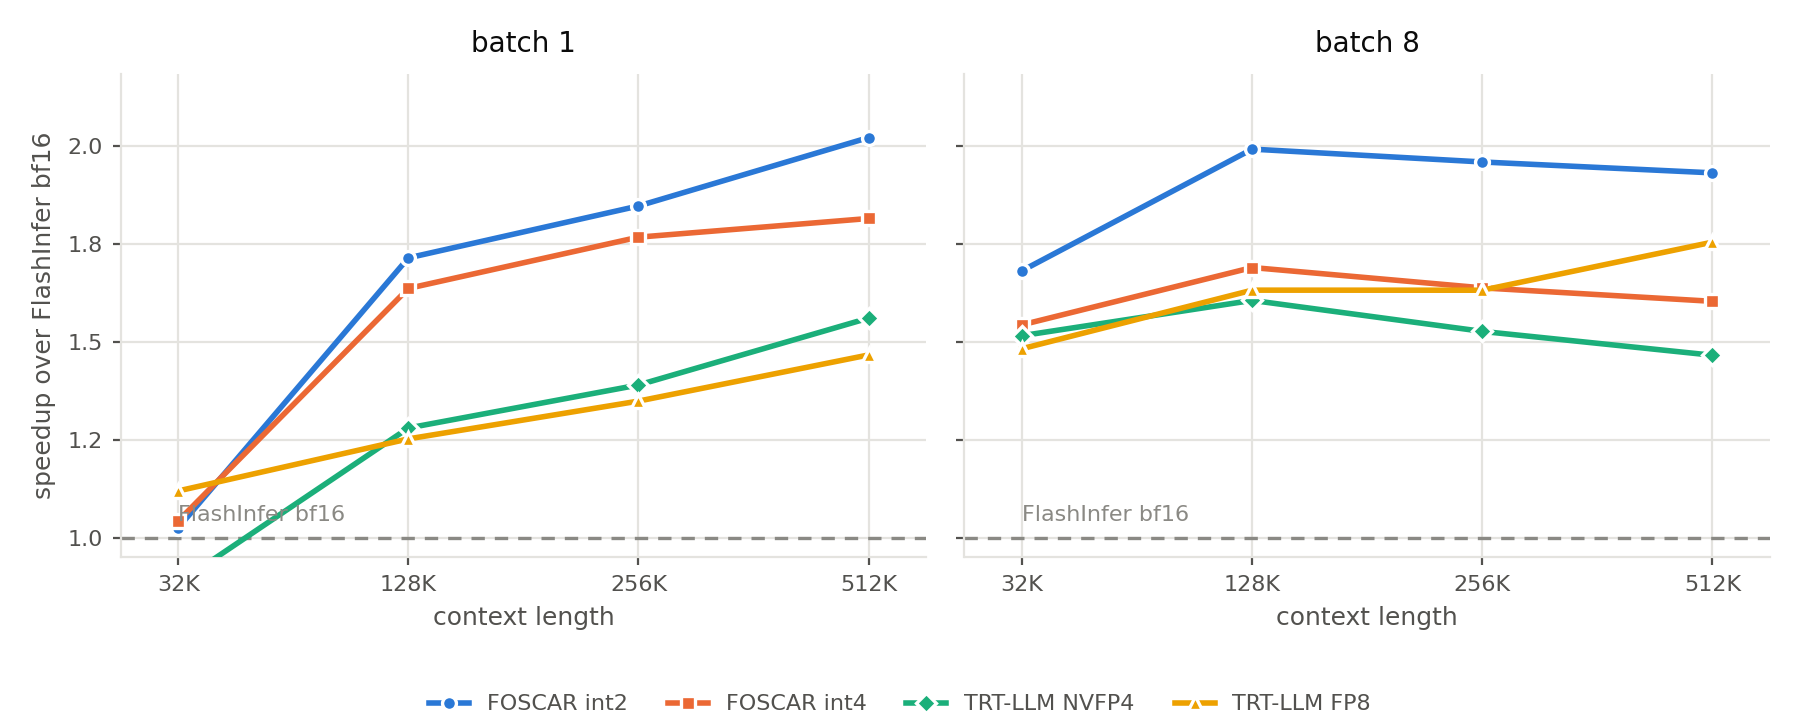
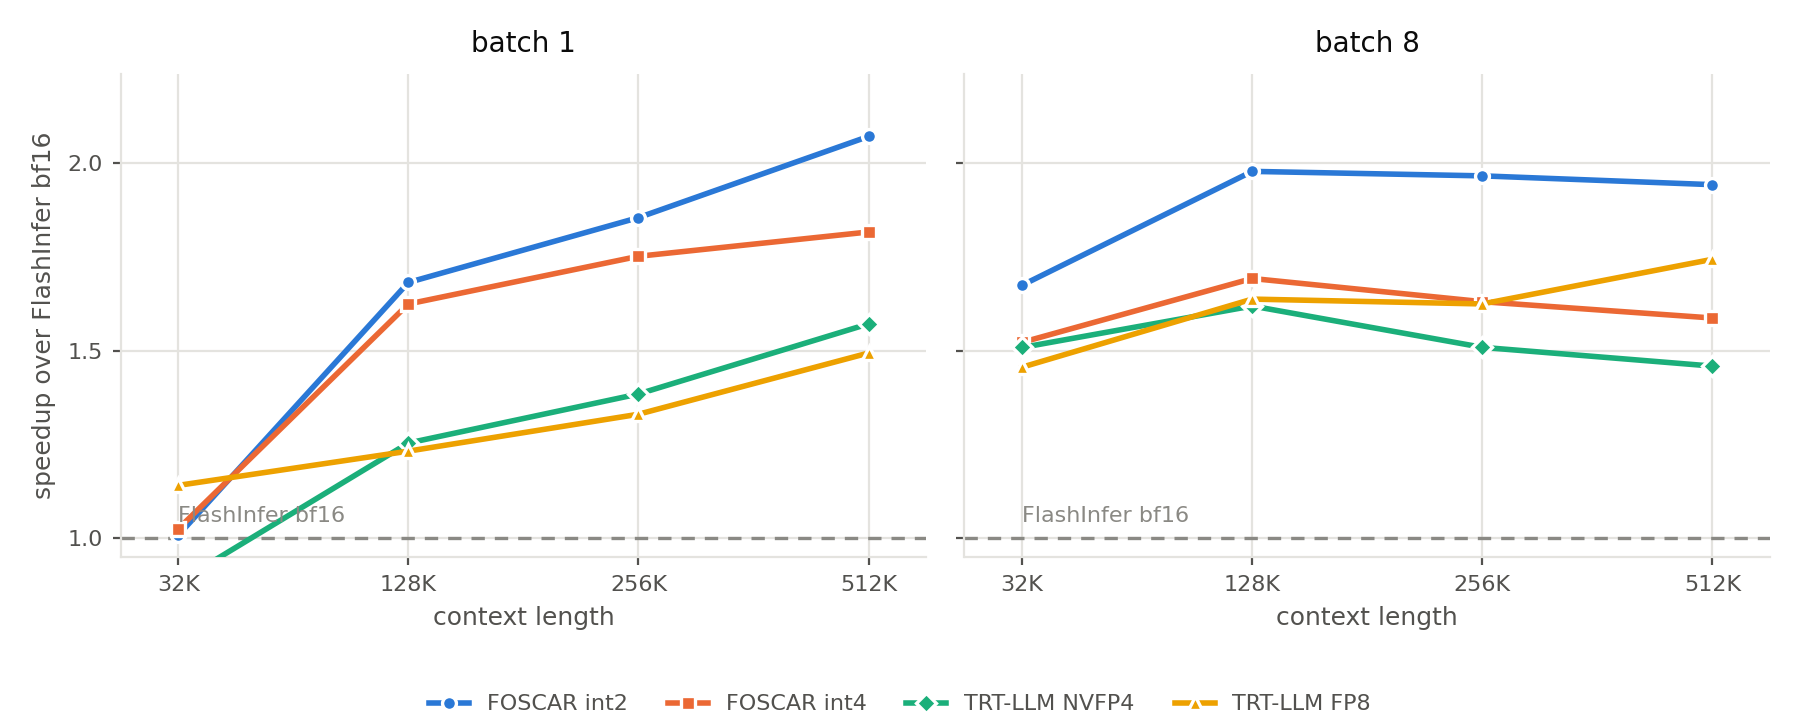
Optimize SM100 token-128 tiling and refresh B200 Inkling TP8 benchmarks

diff --git a/src/foscar/_sm100/int_fold_decode.py b/src/foscar/_sm100/int_fold_decode.py
@@ -609,6 +609,7 @@ class IntDecodeSm100(GQAPagedDecode):
     #: this table grows a bits dimension.
     QUANT_TILING = {
         (("token", 64), ("token", 64)): (256, 2),
+        (("token", 128), ("token", 128)): (256, 2),
         (("token", 128), ("channel", 64)): (128, 3),
         (("token", 128), ("channel", 128)): (256, 2),
         (("channel", 128), ("channel", 128)): (256, 2),
@@ -1027,7 +1028,7 @@ class IntDecodeSm100(GQAPagedDecode):
         # of smem the KV ring would otherwise get, and `kv_stages` in the
         # `FOLD_TRACE_TILING` line is where that cost shows up.
         self._pt_stages = 4 if pt_stages is None else int(pt_stages)
-        self._p_stages = ((3 if head_dim == 64 else 4)
+        self._p_stages = ((3 if head_dim == 64 else 2)
                           if p_stages is None else int(p_stages))
         # THREE IS THE ONLY FLOOR CONSTRUCTION CAN PROVE, and the effective floor is
         # usually 4. The kernel asserts `pt_stages > prefetch_iters + 1` with
@@ -6406,6 +6407,7 @@ class IntDecodeSm100(GQAPagedDecode):
                         )
                     rSV = cute.make_rmem_tensor(tiles_sm, acc_dtype)
                     rZV = cute.make_rmem_tensor(tiles_sm, acc_dtype)
+                    rZR = cute.make_rmem_tensor(tiles_sm, acc_dtype)
                     if cutlass.const_expr(scale_prefetch):
                         # Coefficients from the quad buffer fetched one
                         # tile ago (prologue, or the previous
@@ -6487,6 +6489,9 @@ class IntDecodeSm100(GQAPagedDecode):
                                 else:
                                     rSV[smi] = s_v
                                     rZV[smi] = z_v - beta_fold * s_v
+                                rZR[smi] = rZV[smi] * cute.arch.rcp_approx(
+                                    rSV[smi] + Float32(1e-30)
+                                )
                             if cutlass.const_expr(
                                 k_is_token and not k_tok64
                             ):
@@ -6923,9 +6928,7 @@ class IntDecodeSm100(GQAPagedDecode):
                                     * inv_lo
                                 )
                             else:
-                                zr = rZV[smi] / (
-                                    rSV[smi] + Float32(1e-30)
-                                )
+                                zr = rZR[smi]
                                 contrib = (
                                     hi_f
                                     + rLo.load().to(acc_dtype)

diff --git a/README.md b/README.md
@@ -159,20 +159,14 @@ bf16 at the same shape, so the dashed line at 1.00 is bf16.
 
 | Batch | Context | FOSCAR int2 | FOSCAR int4 | FlashInfer bf16 | TRT-LLM FP8 | TRT-LLM NVFP4 |
 |---:|---:|---:|---:|---:|---:|---:|
-| 1 | 32K | 12.7 | 12.5 | 16.8 | **11.6** | 13.6 |
-| 1 | 128K | **18.5** | 18.8 | 37.4 | 30.4 | 29.2 |
-| 1 | 256K | **25.6** | 26.6 | 49.0 | 36.7 | 32.9 |
-| 1 | 512K | **40.7** | 42.4 | 72.7 | 49.1 | 41.1 |
-| 8 | 32K | **17.7** | 18.9 | 34.8 | 22.1 | 17.9 |
-| 8 | 128K | **40.2** | 46.1 | 98.1 | 58.9 | 41.1 |
-| 8 | 256K | 71.1 | 78.4 | 171.2 | 101.3 | **70.3** |
-| 8 | 512K | 130.5 | 141.8 | 318.6 | 181.4 | **124.1** |
-
-One KV head serves eight query heads, so a GPU streams an eighth of the
-Qwen3-8B cache at the same context length. FOSCAR's lead narrows with it: at
-batch 8 the TensorRT-LLM NVFP4 column is fastest at 32K, 256K and 512K, and
-within 2% of FOSCAR int2 at 128K. With one KV head there is less work per split,
-and the narrower cache stops paying for it.
+| 1 | 32K | 12.9 | 12.2 | 16.7 | **11.5** | 13.8 |
+| 1 | 128K | **18.2** | 18.4 | 36.4 | 29.9 | 28.4 |
+| 1 | 256K | **22.4** | 22.6 | 49.2 | 37.1 | 32.2 |
+| 1 | 512K | **29.4** | 31.6 | 73.9 | 49.5 | 40.4 |
+| 8 | 32K | **17.3** | 18.8 | 34.8 | 22.2 | 17.7 |
+| 8 | 128K | **37.5** | 44.2 | 98.5 | 59.2 | 41.6 |
+| 8 | 256K | **63.2** | 72.9 | 170.6 | 100.9 | 71.3 |
+| 8 | 512K | **114.8** | 126.3 | 317.4 | 179.0 | 123.9 |
 
 ### B200 (SM100), Muse-Spark-Open-816B-A42B TP8 (HQ=16 HKV=2 D=64)
 
@@ -180,14 +174,14 @@ and the narrower cache stops paying for it.
 
 | Batch | Context | FOSCAR int2 | FOSCAR int4 | FlashInfer bf16 | TRT-LLM FP8 | TRT-LLM NVFP4 |
 |---:|---:|---:|---:|---:|---:|---:|
-| 1 | 32K | 11.9 | 11.7 | 12.2 | **10.9** | 13.8 |
-| 1 | 128K | **16.8** | 17.6 | 28.8 | 23.0 | 22.5 |
-| 1 | 256K | **22.2** | 23.2 | 41.0 | 30.4 | 29.5 |
-| 1 | 512K | **32.5** | 36.2 | 65.7 | 44.8 | 42.1 |
-| 8 | 32K | **20.1** | 21.9 | 33.8 | 22.8 | 22.3 |
-| 8 | 128K | **50.3** | 59.3 | 100.2 | 61.4 | 62.4 |
-| 8 | 256K | **90.7** | 108.5 | 177.7 | 108.9 | 116.4 |
-| 8 | 512K | **170.6** | 205.5 | 329.5 | 187.8 | 224.8 |
+| 1 | 32K | 12.0 | 11.8 | 12.1 | **10.6** | 13.7 |
+| 1 | 128K | **17.0** | 17.6 | 28.6 | 23.2 | 22.8 |
+| 1 | 256K | **22.1** | 23.4 | 41.0 | 30.8 | 29.6 |
+| 1 | 512K | **32.1** | 36.6 | 66.5 | 44.5 | 42.3 |
+| 8 | 32K | **20.0** | 22.0 | 33.5 | 23.0 | 22.2 |
+| 8 | 128K | **51.0** | 59.6 | 100.9 | 61.6 | 62.3 |
+| 8 | 256K | **89.5** | 107.9 | 176.0 | 108.3 | 116.6 |
+| 8 | 512K | **168.4** | 206.1 | 327.2 | 187.6 | 224.2 |
 
 ### H100 (SM90), Qwen3-8B TP1 (HQ=32 HKV=8 D=128)
 
